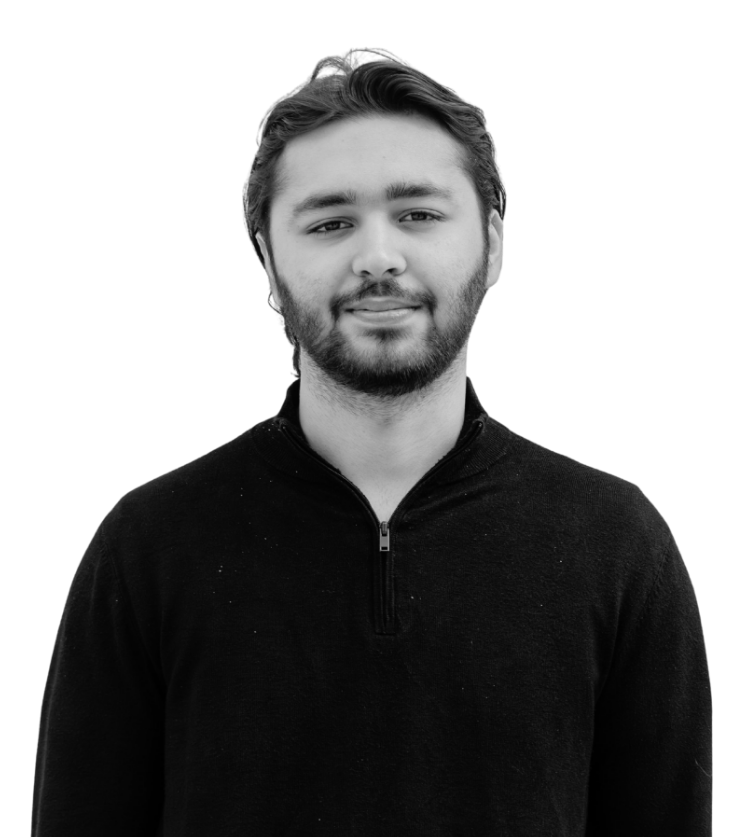
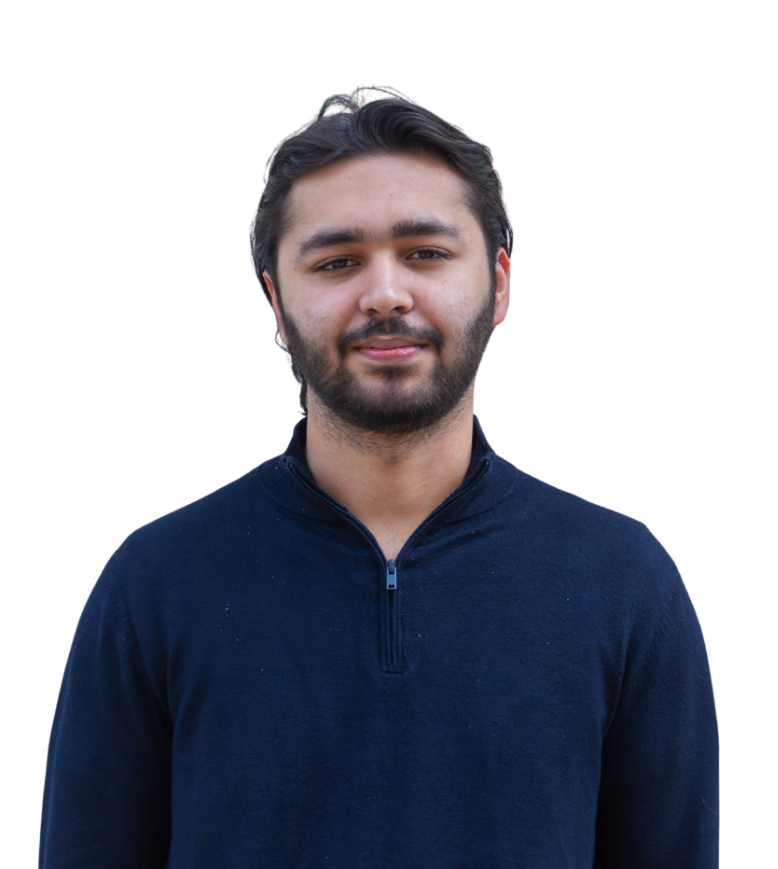
Picture change

diff --git a/components/team/team-card.tsx b/components/team/team-card.tsx
@@ -9,10 +9,11 @@ interface TeamCardProps {
   name: string;
   role: string;
   image: string;
+  id: string;
   linkedInUrl?: string;
 }
 
-export default function ExcomCard({ name, role, image, linkedInUrl }: TeamCardProps) {
+export default function ExcomCard({ name, role, image, id, linkedInUrl }: TeamCardProps) {
   return (
     <div className="relative bg-[#1C0D0D] border-5 border-[#332323] overflow-hidden flex flex-col min-h-[350px] h-full">
 
@@ -22,7 +23,7 @@ export default function ExcomCard({ name, role, image, linkedInUrl }: TeamCardPr
           src={image}
           alt={name}
           fill
-          className="object-contain object-bottom grayscale pt-2
+          className="object-contain object-bottom pt-2
             bg-[radial-gradient(50%_50%_at_50%_50%,#7F7F7F_0%,#383838_37.02%,#272727_65.38%,#191919_100%)]"
         />
 
@@ -42,7 +43,7 @@ export default function ExcomCard({ name, role, image, linkedInUrl }: TeamCardPr
         )}
 
         <div className="absolute top-2 right-2 text-sm font-mono font-bold px-1 bg-black text-[#6E1617]">
-          ID-001-AX
+          {id}
         </div>
       </div>
 
